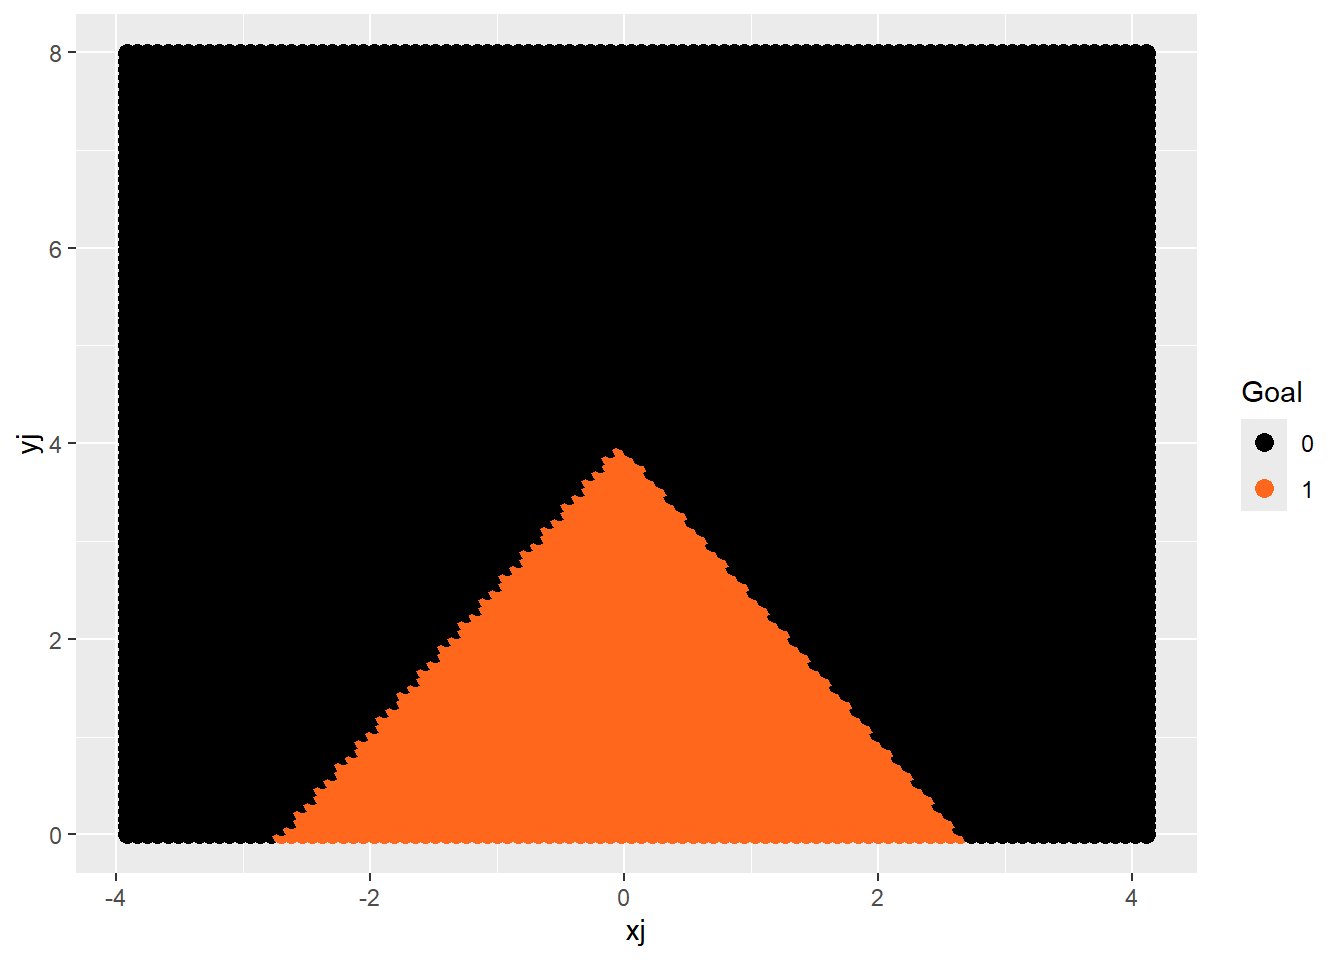
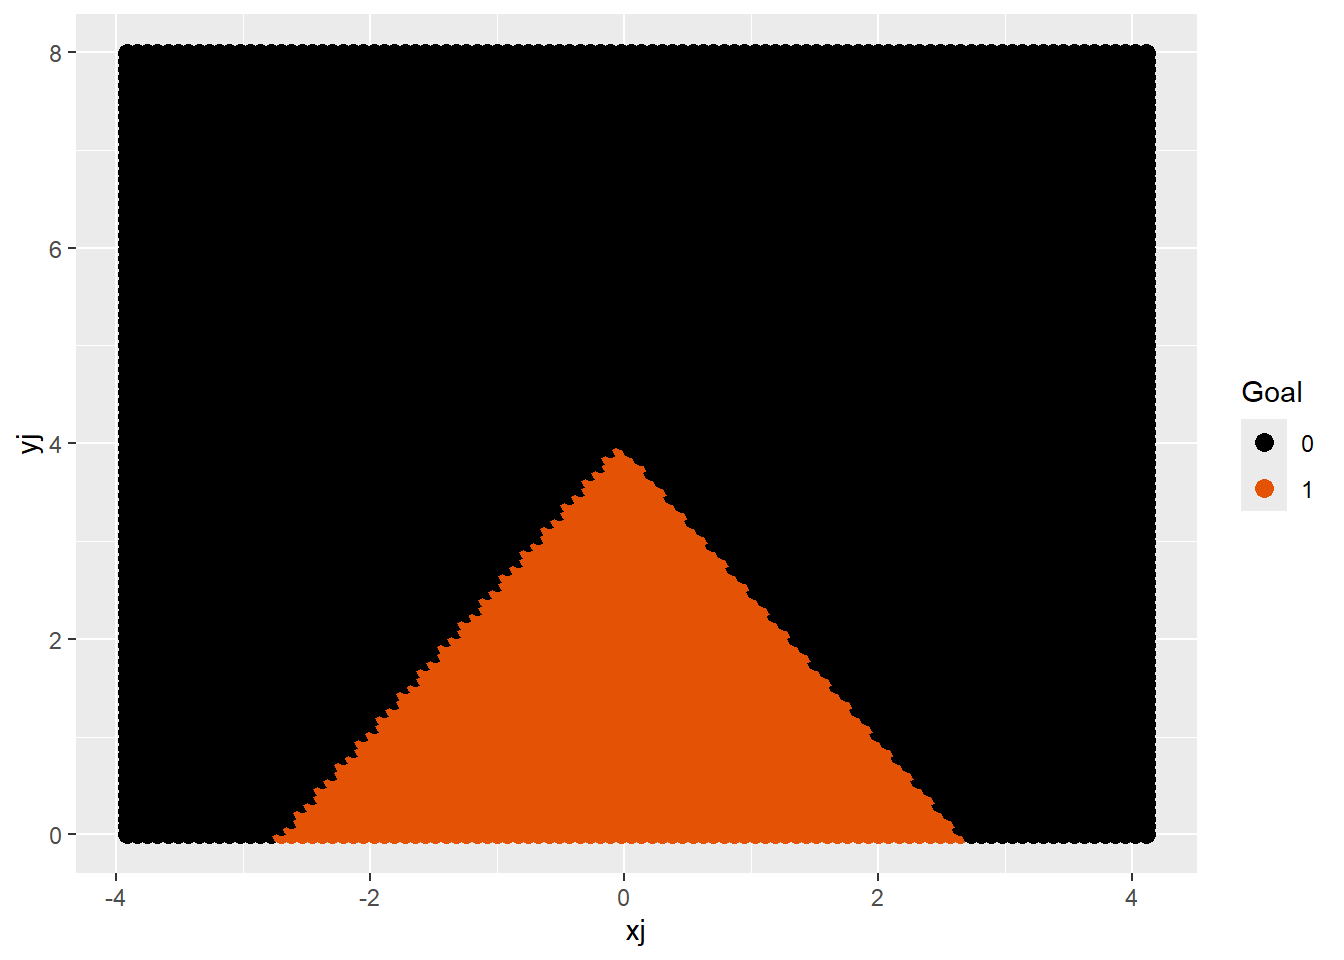
Add Module 3

Changed region(s): [[0.1875, 0.4688, 0.7188, 0.9062], [0.9375, 0.5, 0.9688, 0.5312]]

diff --git a/docs/module-03/notes2.html b/docs/module-03/notes2.html
@@ -383,7 +383,7 @@ p(X_1) = 1/(1+e^{-(\beta_0 + \beta_1 X_1)})
 <span id="cb6-28"><a href="#cb6-28" aria-hidden="true" tabindex="-1"></a><span class="co"># Run the Shiny app</span></span>
 <span id="cb6-29"><a href="#cb6-29" aria-hidden="true" tabindex="-1"></a><span class="fu">shinyApp</span>(<span class="at">ui =</span> ui, <span class="at">server =</span> server)</span></code><button title="Copy to Clipboard" class="code-copy-button"><i class="bi"></i></button></pre></div>
 <div class="cell-output-display">
-<p><iframe data-deferred-src="app2b920a3c318276f1dca6772901945a74/?w=&amp;__subapp__=1" width="100%" height="400" class="shiny-frame shiny-frame-deferred"></iframe></p>
+<p><iframe data-deferred-src="app75926b1494fde8e29727ecb6f442e156/?w=&amp;__subapp__=1" width="100%" height="400" class="shiny-frame shiny-frame-deferred"></iframe></p>
 </div>
 </div>
 <p>You can play around with different values of <span class="math inline">\(\beta_0, \beta_1\)</span> to get some ideas about what is going on. Try to answer the following based on this application:</p>
@@ -478,7 +478,7 @@ p(X) = h(\beta_0 +\beta_1 X_1 + \beta_2 X_2)
 \]</span> with <span class="math inline">\(X_1=xj\)</span> and <span class="math inline">\(X_2=yj\)</span>. If we want to predict the probability of making a shot from position (2,4), we would plug in <span class="math inline">\(X_1= 2\)</span> and <span class="math inline">\(X_2=4\)</span> into the right hand side of this equation:</p>
 <div class="cell">
 <div class="sourceCode cell-code" id="cb10"><pre class="sourceCode r code-with-copy"><code class="sourceCode r"><span id="cb10-1"><a href="#cb10-1" aria-hidden="true" tabindex="-1"></a>bx<span class="ot">=</span><span class="fu">coef</span>(goal_glm)[<span class="dv">1</span>] <span class="sc">+</span><span class="fu">coef</span>(goal_glm)[<span class="dv">2</span>]<span class="sc">*</span><span class="dv">2</span> <span class="sc">+</span> <span class="fu">coef</span>(goal_glm)[<span class="dv">3</span>]<span class="sc">*</span><span class="dv">4</span></span>
-<span id="cb10-2"><a href="#cb10-2" aria-hidden="true" tabindex="-1"></a><span class="fu">exp</span>(bx)<span class="sc">/</span>(<span class="dv">1</span><span class="sc">+</span><span class="fu">exp</span>(bx))</span></code><button title="Copy to Clipboard" class="code-copy-button"><i class="bi"></i></button></pre></div>
+<span id="cb10-2"><a href="#cb10-2" aria-hidden="true" tabindex="-1"></a><span class="dv">1</span><span class="sc">/</span>(<span class="dv">1</span><span class="sc">+</span><span class="fu">exp</span>(<span class="sc">-</span>bx))</span></code><button title="Copy to Clipboard" class="code-copy-button"><i class="bi"></i></button></pre></div>
 <div class="cell-output cell-output-stdout">
 <pre><code>(Intercept) 
   0.3832721 </code></pre>
@@ -495,7 +495,7 @@ p(X) = h(\beta_0 +\beta_1 X_1 + \beta_2 X_2)
 <p>Now, in terms of interpreting the coefficients, remember that the model is linear in log-odds: <span class="math display">\[
 \log(p(X)/(1-p(X))) = \beta_0 + \beta_1X_1 + \beta_2 X_2
 \]</span></p>
-<p>In a normal linear equation, a change of <span class="math inline">\(\Delta x\)</span> to <span class="math inline">\(x\)</span> means that the outcome variable changes by <span class="math inline">\(m\Delta x\)</span> where <span class="math inline">\(m\)</span> is the slope. Now a change <span class="math inline">\(\Delta x\)</span> in one of the predictors <span class="math inline">\(X_i\)</span>, while holding the others constant, means that the log-odds of “success” go up by <span class="math inline">\(\hat{\beta}_i \Delta x\)</span> so the odds increase by a multiplicative factor <span class="math inline">\(e^{\hat{\beta}_i \Delta x}\)</span>. For example, if we keep our horizontal position constant, but move one meter closer to the goal (change in <span class="math inline">\(yj\)</span> of <span class="math inline">\(-1\)</span>), then the odds get multiplied by</p>
+<p>In a simple linear equation, a change of <span class="math inline">\(\Delta x\)</span> to <span class="math inline">\(x\)</span> means that the outcome variable changes by <span class="math inline">\(m\Delta x\)</span> where <span class="math inline">\(m\)</span> is the slope. Now a change <span class="math inline">\(\Delta x\)</span> in one of the predictors <span class="math inline">\(X_i\)</span>, while holding the others constant, means that the log-odds of “success” goes up by <span class="math inline">\(\hat{\beta}_i \Delta x\)</span> so the odds increase by a multiplicative factor <span class="math inline">\(e^{\hat{\beta}_i \Delta x}\)</span>. For example, if we keep our horizontal position constant, but move one meter closer to the goal (change in <span class="math inline">\(yj\)</span> of <span class="math inline">\(-1\)</span>), then the odds get multiplied by</p>
 <div class="cell">
 <div class="sourceCode cell-code" id="cb14"><pre class="sourceCode r code-with-copy"><code class="sourceCode r"><span id="cb14-1"><a href="#cb14-1" aria-hidden="true" tabindex="-1"></a><span class="fu">exp</span>(<span class="fu">coef</span>(goal_glm)[<span class="dv">3</span>]<span class="sc">*</span>(<span class="sc">-</span><span class="dv">1</span>))</span></code><button title="Copy to Clipboard" class="code-copy-button"><i class="bi"></i></button></pre></div>
 <div class="cell-output cell-output-stdout">
@@ -515,7 +515,7 @@ p(X) = h(\beta_0 +\beta_1 X_1 + \beta_2 X_2)
 </div>
 </div>
 <p>Note that odds changes are negative if you move further away.</p>
-<p>One more comment before we wrap this up. The last column of the summary table once again gives the p-values for tests of nonzero coefficients:</p>
+<p>One more comment before we wrap this up. The last column of the summary table again gives the p-values for tests of nonzero coefficients:</p>
 <div class="cell">
 <div class="sourceCode cell-code" id="cb17"><pre class="sourceCode r code-with-copy"><code class="sourceCode r"><span id="cb17-1"><a href="#cb17-1" aria-hidden="true" tabindex="-1"></a><span class="fu">summary</span>(goal_glm)</span></code><button title="Copy to Clipboard" class="code-copy-button"><i class="bi"></i></button></pre></div>
 <div class="cell-output cell-output-stdout">
@@ -542,13 +542,12 @@ Number of Fisher Scoring iterations: 4</code></pre>
 </div>
 <p>In our example, the intercept and <span class="math inline">\(y\)</span> distance were significant, but the <span class="math inline">\(x\)</span> distance was not. That is probably because <span class="math inline">\(x\)</span> is not distance, but rather horizontal position. Instead, we should fit the model with <span class="math inline">\(|xj|\)</span>:</p>
 <div class="cell">
-<div class="sourceCode cell-code" id="cb19"><pre class="sourceCode r code-with-copy"><code class="sourceCode r"><span id="cb19-1"><a href="#cb19-1" aria-hidden="true" tabindex="-1"></a>goal_glm<span class="ot">=</span><span class="fu">glm</span>(Goal<span class="sc">==</span><span class="st">"Goal"</span><span class="sc">~</span><span class="fu">abs</span>(xj)<span class="sc">+</span>yj,<span class="at">family=</span><span class="st">"binomial"</span>,<span class="at">data=</span>shots)</span>
+<div class="sourceCode cell-code" id="cb19"><pre class="sourceCode r code-with-copy"><code class="sourceCode r"><span id="cb19-1"><a href="#cb19-1" aria-hidden="true" tabindex="-1"></a>goal_glm<span class="ot">=</span><span class="fu">glm</span>(Goal_1<span class="sc">~</span><span class="fu">abs</span>(xj)<span class="sc">+</span>yj,<span class="at">family=</span><span class="st">"binomial"</span>,<span class="at">data=</span>shots)</span>
 <span id="cb19-2"><a href="#cb19-2" aria-hidden="true" tabindex="-1"></a><span class="fu">summary</span>(goal_glm)</span></code><button title="Copy to Clipboard" class="code-copy-button"><i class="bi"></i></button></pre></div>
 <div class="cell-output cell-output-stdout">
 <pre><code>
 Call:
-glm(formula = Goal == "Goal" ~ abs(xj) + yj, family = "binomial", 
-    data = shots)
+glm(formula = Goal_1 ~ abs(xj) + yj, family = "binomial", data = shots)
 
 Coefficients:
             Estimate Std. Error z value Pr(&gt;|z|)    
@@ -595,11 +594,13 @@ P(Goal|(x,y)) &gt; 0.5
 <span id="cb21-17"><a href="#cb21-17" aria-hidden="true" tabindex="-1"></a>grid<span class="sc">$</span>prediction <span class="ot">=</span> <span class="fu">ifelse</span>(grid<span class="sc">$</span>prob <span class="sc">&gt;</span> <span class="fl">0.5</span>, <span class="dv">1</span>, <span class="dv">0</span>)</span>
 <span id="cb21-18"><a href="#cb21-18" aria-hidden="true" tabindex="-1"></a></span>
 <span id="cb21-19"><a href="#cb21-19" aria-hidden="true" tabindex="-1"></a><span class="co"># Plot the decision boundary with the actual data</span></span>
-<span id="cb21-20"><a href="#cb21-20" aria-hidden="true" tabindex="-1"></a><span class="fu">ggplot</span>(shots, <span class="fu">aes</span>(<span class="at">x =</span> xj, <span class="at">y =</span> yj, <span class="at">color =</span> Goal)) <span class="sc">+</span></span>
-<span id="cb21-21"><a href="#cb21-21" aria-hidden="true" tabindex="-1"></a>  <span class="fu">geom_point</span>(<span class="at">size =</span> <span class="dv">2</span>) <span class="sc">+</span>  </span>
-<span id="cb21-22"><a href="#cb21-22" aria-hidden="true" tabindex="-1"></a>  <span class="fu">geom_contour</span>(<span class="at">data =</span> grid, <span class="fu">aes</span>(<span class="at">z =</span> prob), <span class="at">breaks =</span> <span class="fl">0.5</span>, <span class="at">color =</span> <span class="st">"red2"</span>) <span class="sc">+</span>  <span class="co"># Decision boundary</span></span>
-<span id="cb21-23"><a href="#cb21-23" aria-hidden="true" tabindex="-1"></a>  <span class="fu">labs</span>(<span class="at">color =</span> <span class="st">"Goal"</span>) <span class="sc">+</span></span>
-<span id="cb21-24"><a href="#cb21-24" aria-hidden="true" tabindex="-1"></a>  <span class="fu">scale_color_manual</span>(<span class="at">values=</span><span class="fu">c</span>(<span class="st">"#FF671D"</span>,<span class="st">"black"</span>))</span></code><button title="Copy to Clipboard" class="code-copy-button"><i class="bi"></i></button></pre></div>
+<span id="cb21-20"><a href="#cb21-20" aria-hidden="true" tabindex="-1"></a>shots <span class="sc">|&gt;</span></span>
+<span id="cb21-21"><a href="#cb21-21" aria-hidden="true" tabindex="-1"></a>  <span class="fu">ggplot</span>(<span class="fu">aes</span>(<span class="at">x =</span> xj, <span class="at">y =</span> yj, <span class="at">color =</span> Goal)) <span class="sc">+</span></span>
+<span id="cb21-22"><a href="#cb21-22" aria-hidden="true" tabindex="-1"></a>  <span class="fu">geom_point</span>(<span class="at">size =</span> <span class="dv">2</span>) <span class="sc">+</span>  </span>
+<span id="cb21-23"><a href="#cb21-23" aria-hidden="true" tabindex="-1"></a>  <span class="fu">geom_contour</span>(<span class="at">data =</span> grid, <span class="fu">aes</span>(<span class="at">z =</span> prob), </span>
+<span id="cb21-24"><a href="#cb21-24" aria-hidden="true" tabindex="-1"></a>               <span class="at">breaks =</span> <span class="fl">0.5</span>, <span class="at">color =</span> <span class="st">"red2"</span>,<span class="at">linewidth=</span><span class="dv">2</span>) <span class="sc">+</span>  <span class="co"># Decision boundary</span></span>
+<span id="cb21-25"><a href="#cb21-25" aria-hidden="true" tabindex="-1"></a>  <span class="fu">labs</span>(<span class="at">color =</span> <span class="st">"Goal"</span>) <span class="sc">+</span></span>
+<span id="cb21-26"><a href="#cb21-26" aria-hidden="true" tabindex="-1"></a>  <span class="fu">scale_color_manual</span>(<span class="at">values=</span><span class="fu">c</span>(<span class="st">"#e35205"</span>,<span class="st">"black"</span>))</span></code><button title="Copy to Clipboard" class="code-copy-button"><i class="bi"></i></button></pre></div>
 <div class="cell-output-display">
 <div>
 <figure class="figure">
@@ -610,8 +611,10 @@ P(Goal|(x,y)) &gt; 0.5
 </div>
 <p>We could also visualize this as in the last notes with a color grid</p>
 <div class="cell">
-<div class="sourceCode cell-code" id="cb22"><pre class="sourceCode r code-with-copy"><code class="sourceCode r"><span id="cb22-1"><a href="#cb22-1" aria-hidden="true" tabindex="-1"></a>  grid <span class="sc">%&gt;%</span> <span class="fu">ggplot</span>(<span class="fu">aes</span>(<span class="at">x=</span>xj,<span class="at">y=</span>yj,<span class="at">col=</span><span class="fu">as.factor</span>(prediction)))<span class="sc">+</span><span class="fu">geom_point</span>(<span class="at">size=</span><span class="dv">3</span>)<span class="sc">+</span></span>
-<span id="cb22-2"><a href="#cb22-2" aria-hidden="true" tabindex="-1"></a>  <span class="fu">scale_color_manual</span>(<span class="at">name=</span><span class="st">"Goal"</span>,<span class="at">values=</span><span class="fu">c</span>(<span class="st">"black"</span>,<span class="st">"#FF671D"</span>))</span></code><button title="Copy to Clipboard" class="code-copy-button"><i class="bi"></i></button></pre></div>
+<div class="sourceCode cell-code" id="cb22"><pre class="sourceCode r code-with-copy"><code class="sourceCode r"><span id="cb22-1"><a href="#cb22-1" aria-hidden="true" tabindex="-1"></a>  grid <span class="sc">|&gt;</span></span>
+<span id="cb22-2"><a href="#cb22-2" aria-hidden="true" tabindex="-1"></a>  <span class="fu">ggplot</span>(<span class="fu">aes</span>(<span class="at">x=</span>xj,<span class="at">y=</span>yj,<span class="at">col=</span><span class="fu">as.factor</span>(prediction)))<span class="sc">+</span></span>
+<span id="cb22-3"><a href="#cb22-3" aria-hidden="true" tabindex="-1"></a>  <span class="fu">geom_point</span>(<span class="at">size=</span><span class="dv">3</span>)<span class="sc">+</span></span>
+<span id="cb22-4"><a href="#cb22-4" aria-hidden="true" tabindex="-1"></a>  <span class="fu">scale_color_manual</span>(<span class="at">name=</span><span class="st">"Goal"</span>,<span class="at">values=</span><span class="fu">c</span>(<span class="st">"black"</span>,<span class="st">"#e35205"</span>))</span></code><button title="Copy to Clipboard" class="code-copy-button"><i class="bi"></i></button></pre></div>
 <div class="cell-output-display">
 <div>
 <figure class="figure">
@@ -624,17 +627,19 @@ P(Goal|(x,y)) &gt; 0.5
 <div class="cell">
 <div class="sourceCode cell-code" id="cb23"><pre class="sourceCode r code-with-copy"><code class="sourceCode r"><span id="cb23-1"><a href="#cb23-1" aria-hidden="true" tabindex="-1"></a>n<span class="ot">=</span><span class="fu">nrow</span>(shots)</span>
 <span id="cb23-2"><a href="#cb23-2" aria-hidden="true" tabindex="-1"></a>s<span class="ot">=</span><span class="fu">sample</span>(n,<span class="fu">round</span>(.<span class="dv">7</span><span class="sc">*</span>n,<span class="dv">0</span>))</span>
-<span id="cb23-3"><a href="#cb23-3" aria-hidden="true" tabindex="-1"></a>train<span class="ot">=</span>shots[s,]</span>
-<span id="cb23-4"><a href="#cb23-4" aria-hidden="true" tabindex="-1"></a>test<span class="ot">=</span>shots[<span class="sc">-</span>s,]</span>
-<span id="cb23-5"><a href="#cb23-5" aria-hidden="true" tabindex="-1"></a>goal_train<span class="ot">=</span><span class="fu">glm</span>(Goal<span class="sc">==</span><span class="st">"Goal"</span><span class="sc">~</span><span class="fu">abs</span>(xj)<span class="sc">+</span>yj,<span class="at">family=</span><span class="st">"binomial"</span>,<span class="at">data=</span>train)</span>
-<span id="cb23-6"><a href="#cb23-6" aria-hidden="true" tabindex="-1"></a>test<span class="sc">$</span>prob <span class="ot">=</span> <span class="fu">predict</span>(goal_train, </span>
-<span id="cb23-7"><a href="#cb23-7" aria-hidden="true" tabindex="-1"></a>                    <span class="at">newdata =</span> test, </span>
+<span id="cb23-3"><a href="#cb23-3" aria-hidden="true" tabindex="-1"></a>train_set<span class="ot">=</span>shots[s,]</span>
+<span id="cb23-4"><a href="#cb23-4" aria-hidden="true" tabindex="-1"></a>test_set<span class="ot">=</span>shots[<span class="sc">-</span>s,]</span>
+<span id="cb23-5"><a href="#cb23-5" aria-hidden="true" tabindex="-1"></a>goal_train<span class="ot">=</span><span class="fu">glm</span>(Goal_1<span class="sc">~</span><span class="fu">abs</span>(xj)<span class="sc">+</span>yj,<span class="at">family=</span><span class="st">"binomial"</span>,<span class="at">data=</span>train_set)</span>
+<span id="cb23-6"><a href="#cb23-6" aria-hidden="true" tabindex="-1"></a>test_set<span class="sc">$</span>prob <span class="ot">=</span> <span class="fu">predict</span>(goal_train, </span>
+<span id="cb23-7"><a href="#cb23-7" aria-hidden="true" tabindex="-1"></a>                    <span class="at">newdata =</span> test_set, </span>
 <span id="cb23-8"><a href="#cb23-8" aria-hidden="true" tabindex="-1"></a>                    <span class="at">type =</span> <span class="st">"response"</span>)</span>
-<span id="cb23-9"><a href="#cb23-9" aria-hidden="true" tabindex="-1"></a>test<span class="sc">$</span>prediction <span class="ot">=</span> <span class="fu">ifelse</span>(test<span class="sc">$</span>prob <span class="sc">&gt;</span> <span class="fl">0.5</span>, <span class="st">"Goal"</span>, <span class="st">"Not Goal"</span>)</span>
-<span id="cb23-10"><a href="#cb23-10" aria-hidden="true" tabindex="-1"></a>er_logistic<span class="ot">=</span><span class="fu">sum</span>(test<span class="sc">$</span>prediction<span class="sc">!=</span>test<span class="sc">$</span>Goal)<span class="sc">/</span><span class="fu">length</span>(test<span class="sc">$</span>Goal)</span>
-<span id="cb23-11"><a href="#cb23-11" aria-hidden="true" tabindex="-1"></a>er_logistic</span></code><button title="Copy to Clipboard" class="code-copy-button"><i class="bi"></i></button></pre></div>
+<span id="cb23-9"><a href="#cb23-9" aria-hidden="true" tabindex="-1"></a>test_set<span class="sc">$</span>prediction <span class="ot">=</span> <span class="fu">ifelse</span>(test_set<span class="sc">$</span>prob <span class="sc">&gt;</span> <span class="fl">0.5</span>, </span>
+<span id="cb23-10"><a href="#cb23-10" aria-hidden="true" tabindex="-1"></a>                             <span class="st">"Goal"</span>, </span>
+<span id="cb23-11"><a href="#cb23-11" aria-hidden="true" tabindex="-1"></a>                             <span class="st">"Not Goal"</span>)</span>
+<span id="cb23-12"><a href="#cb23-12" aria-hidden="true" tabindex="-1"></a>er_logistic<span class="ot">=</span><span class="fu">sum</span>(test_set<span class="sc">$</span>prediction<span class="sc">!=</span>test_set<span class="sc">$</span>Goal)<span class="sc">/</span><span class="fu">length</span>(test_set<span class="sc">$</span>Goal)</span>
+<span id="cb23-13"><a href="#cb23-13" aria-hidden="true" tabindex="-1"></a>er_logistic</span></code><button title="Copy to Clipboard" class="code-copy-button"><i class="bi"></i></button></pre></div>
 <div class="cell-output cell-output-stdout">
-<pre><code>[1] 0.3962656</code></pre>
+<pre><code>[1] 0.3630705</code></pre>
 </div>
 </div>
 <p>For those of you who did the last group work, this should be close to the best knn model error rates you got.</p>
@@ -647,17 +652,20 @@ P(Goal|(x,y)) &gt; 0.5
 <li>The exponentiated coefficients tell us changes in the log-odds of success when the corresponding variable is changed.</li>
 <li>A logistic model can reveal some important information about the relationships between our predictors and the outcome.</li>
 </ul>
-<p>But there is one kind of strange issue here which is the use of 0.5 as a cutoff for class predictions. Since the classes Goal and Not Goal are imbalanced with roughly twice as many of the latter, could we actually do better by using a different cutoff? Furthermore, we haven’t look at the types of misclassifications. If we actually create a two-way table of predictions vs realtiy for our Goals:</p>
+<p>But there is one kind of strange issue here which is the use of 0.5 as a cutoff for class predictions. Since the classes Goal and Not Goal are imbalanced with roughly twice as many of the latter, could we actually do better by using a different cutoff? Furthermore, we haven’t look at the types of misclassifications. If we actually create a two-way table of predictions vs reality for our Goals:</p>
 <div class="cell">
-<div class="sourceCode cell-code" id="cb25"><pre class="sourceCode r code-with-copy"><code class="sourceCode r"><span id="cb25-1"><a href="#cb25-1" aria-hidden="true" tabindex="-1"></a><span class="fu">table</span>(test<span class="sc">$</span>prediction,test<span class="sc">$</span>Goal)</span></code><button title="Copy to Clipboard" class="code-copy-button"><i class="bi"></i></button></pre></div>
+<div class="sourceCode cell-code" id="cb25"><pre class="sourceCode r code-with-copy"><code class="sourceCode r"><span id="cb25-1"><a href="#cb25-1" aria-hidden="true" tabindex="-1"></a><span class="fu">table</span>(test_set<span class="sc">$</span>prediction,test_set<span class="sc">$</span>Goal)</span></code><button title="Copy to Clipboard" class="code-copy-button"><i class="bi"></i></button></pre></div>
 <div class="cell-output cell-output-stdout">
 <pre><code>          
            Goal Not Goal
-  Goal       24       15
-  Not Goal  176      267</code></pre>
+  Goal       36       30
+  Not Goal  145      271</code></pre>
 </div>
 </div>
 <p>we see that there are two types of errors: predicting goal for not goal and predicting not goal for goal.The second type of error is happening much more frequently. Is this desirable? Next notes we’ll talk about these two way confusion matrices in more detail and some other metrics one can use to talk about to assess the value of a classification scheme. We’ll also discuss incorporating qualitative predictors into our models and how we compare our logistic model with the “null”. Until then, love the ones you’re with.</p>
+</section>
+<section id="practice" class="level2">
+<h2 class="anchored" data-anchor-id="practice">Practice</h2>
 
 
 </section>

diff --git a/docs/modules.html b/docs/modules.html
@@ -491,7 +491,7 @@ The womenShots.csv dataset contains positional and situational data on a collect
 </div>
 </a>
 </div>
-<div class="g-col-1" data-index="14" data-listing-file-modified-sort="1778284663313" data-listing-reading-time-sort="13" data-listing-word-count-sort="2459">
+<div class="g-col-1" data-index="14" data-listing-file-modified-sort="1778285309658" data-listing-reading-time-sort="13" data-listing-word-count-sort="2537">
 <a href="./module-03/notes2.html" class="quarto-grid-link">
 <div class="quarto-grid-item card h-100 card-left">
 <div class="card-body post-contents">